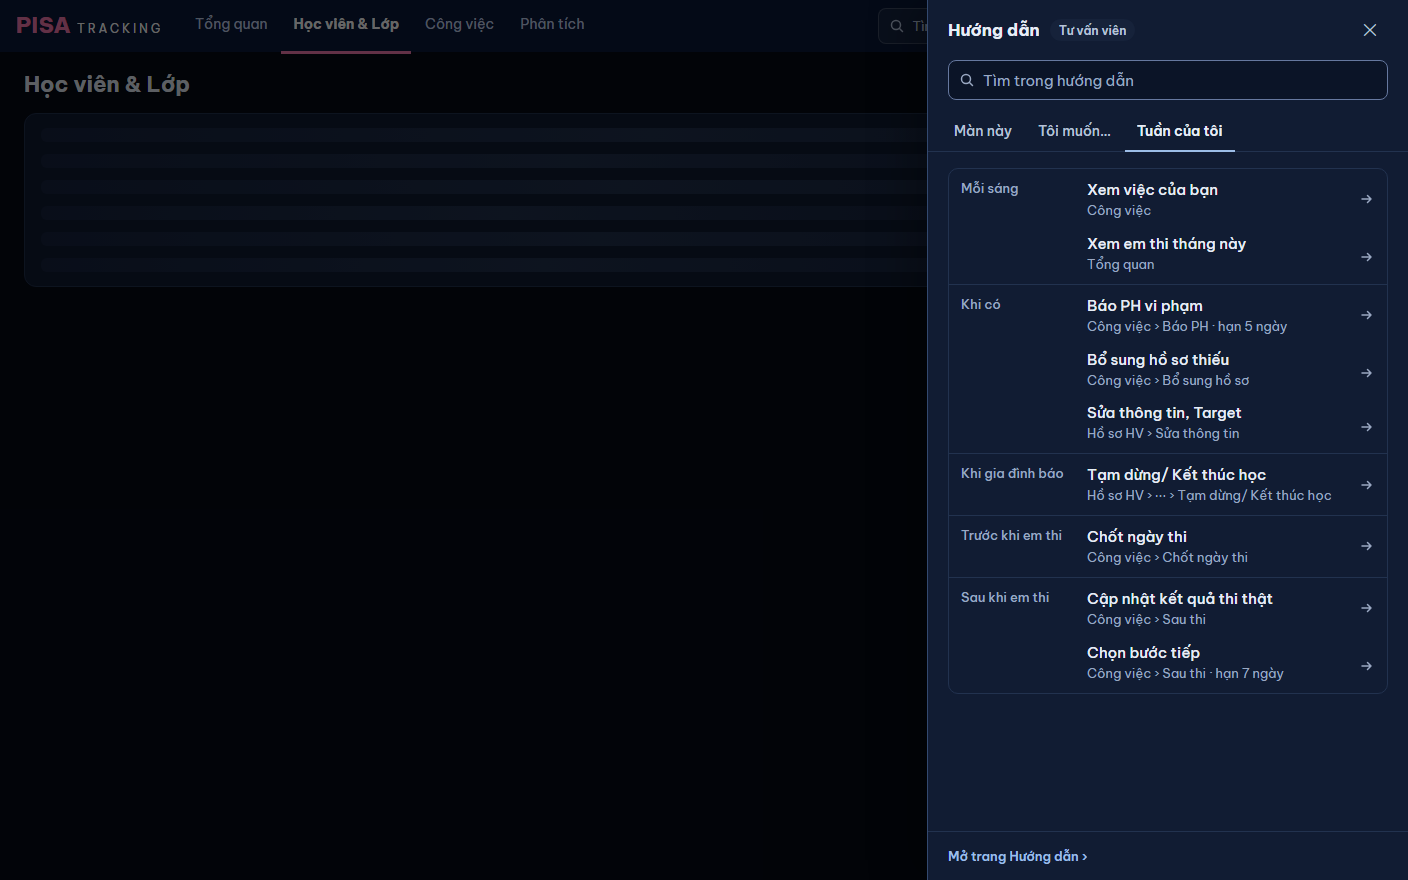
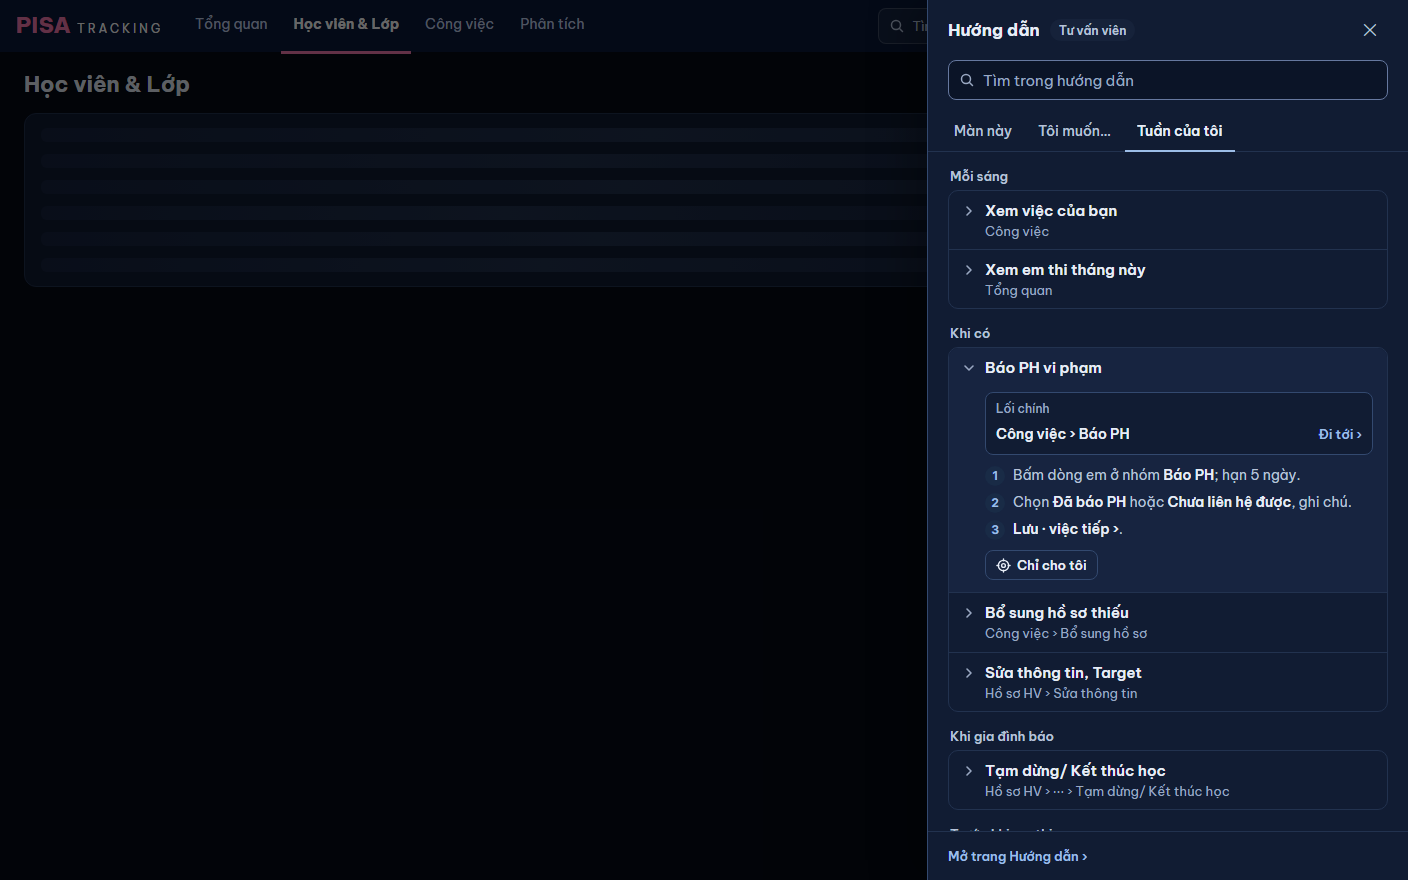
thiet-ke v14: sửa theo PTA rà #999 — F0 thanh trên có "?" (1440), Tuần của tôi mở tại chỗ, bỏ dòng trùng Không làm ở đây

Changed region(s): [[0.6562, 0.1841, 0.9688, 0.7977], [0.6562, 0.8284, 0.875, 0.9205], [0.9375, 0.4909, 0.9688, 0.5216]]

diff --git a/thiet-ke/v14/huong-dan.html b/thiet-ke/v14/huong-dan.html
@@ -145,8 +145,6 @@
 .o-loi-chinh .cung { flex-basis:100%; font-size:13px; color:var(--text-dim); }
 .dt .o-loi-chinh .phai-l a { min-height:44px; padding:0 4px; }
 .luong.mot { grid-template-columns:1fr; }
-.tuan > button { position:relative; padding-right:36px !important; }
-.tuan .mui-t { position:absolute; right:12px; top:50%; translate:0 -50%; width:16px; height:16px; fill:none; stroke:var(--text-faint); stroke-width:1.5; stroke-linecap:round; stroke-linejoin:round; }
 .rong-tim { display:grid; gap:12px; justify-items:start; font-size:15px; color:var(--text-dim); }
 .khong-lam.vai-khac { border:1px solid var(--line); border-radius:10px; padding:0 12px; }
 .khong-lam.vai-khac > div { padding:10px 0; }
@@ -179,17 +177,6 @@ mark { background:var(--hong-nen); color:var(--hong-chu); border-radius:3px; pad
 .ds-nhom { display:grid; gap:16px; }
 .dem-kq { font:500 13px var(--phong); color:var(--text-dim); }
 .ghi-rong { font-size:14px; color:var(--text-dim); }
-.tuan { border:1px solid var(--line); border-radius:10px; overflow:hidden; }
-.tuan > button { appearance:none; width:100%; border:0; background:none; display:grid; grid-template-columns:116px minmax(0,1fr); gap:10px; align-items:start; padding:10px 12px; border-top:1px solid var(--line); text-align:left; cursor:pointer; font:inherit; color:var(--text); }
-.tuan > button:first-child { border-top:0; }
-.tuan > button.cung-nhip { border-top-color:transparent; padding-top:2px; }
-.tuan > button:hover { background:var(--accent-soft); }
-.tuan .nhip { font:500 13px/1.5 var(--phong); color:var(--text-faint); }
-.tuan .viec-t { display:grid; gap:1px; }
-.tuan .viec-t b { font:500 15px/1.4 var(--phong); }
-.tuan .viec-t small { font-size:13px; color:var(--text-faint); }
-.dt .tuan > button { grid-template-columns:minmax(0,1fr); gap:2px; }
-.dt .tuan > button.cung-nhip .nhip { display:none; }
 
 /* menu Tài khoản 375 */
 .menu-tk { position:absolute; left:8px; right:8px; top:56px; z-index:30; background:var(--surface); border:1px solid var(--line); border-radius:12px; box-shadow:0 12px 32px rgb(0 0 0 / .25); padding:12px; display:grid; gap:8px; }
@@ -243,7 +230,7 @@ mark { background:var(--hong-nen); color:var(--hong-chu); border-radius:3px; pad
   </section>
 
   <section class="khu" id="d">
-    <h2>D · TVV Phạm Thu Trang, tab Tuần của tôi (bấm dòng → mở đúng việc ở Tôi muốn…)</h2>
+    <h2>D · TVV Phạm Thu Trang, tab Tuần của tôi (nhóm theo nhịp, bấm dòng mở ngay tại chỗ)</h2>
     <div class="cap">
       <figure><figcaption>D · 1440 tối</figcaption><div class="man toi" data-k="d1"></div></figure>
       <figure><figcaption>D · 375 sáng</figcaption><div class="dt sang" data-k="d1m"></div></figure>
@@ -259,8 +246,12 @@ mark { background:var(--hong-nen); color:var(--hong-chu); border-radius:3px; pad
   </section>
 
   <section class="khu" id="f">
-    <h2>F · 375 — chấm trên "?" khi chưa mở lần nào · panel toàn màn · menu Tài khoản không còn "Hướng dẫn"</h2>
+    <h2>F · nút "?" trên thanh — chấm khi chưa mở lần nào · panel toàn màn · menu Tài khoản không còn "Hướng dẫn"</h2>
     <div class="cap">
+      <figure><figcaption>F0 · 1440 tối · panel đóng, "?" cạnh chuông, chấm = chưa mở lần nào</figcaption><div class="man toi" data-k="f0"></div></figure>
+      <figure><figcaption>F0 · 1440 sáng</figcaption><div class="man sang" data-k="f0"></div></figure>
+    </div>
+    <div class="cap" style="margin-top:16px">
       <figure><figcaption>F1 · sáng · chưa mở lần nào</figcaption><div class="dt sang" data-k="f1"></div></figure>
       <figure><figcaption>F2 · tối · đã mở (hết chấm)</figcaption><div class="dt toi" data-k="f2"></div></figure>
       <figure><figcaption>F3 · sáng · QL · menu Tài khoản: "Đã xoá" thay chỗ "Hướng dẫn"</figcaption><div class="dt sang" data-k="f3"></div></figure>
@@ -386,7 +377,7 @@ mark { background:var(--hong-nen); color:var(--hong-chu); border-radius:3px; pad
       { ten: 'Nhập điểm MT cũ', vai: 'Chỉ GVCN', nho: 'Công việc › Nhập điểm MT cũ' },
       { ten: 'Xem bài quá hạn chấm' }
     ])) +
-    khongLam([['Xếp, dời lịch MT', 'việc của QL', 1], ['Xác nhận Case, PA · ghi kết quả', 'Công việc › Case học thuật']]);
+    khongLam([['Xếp, dời lịch MT', 'việc của QL', 1], ['Xem điểm cả lớp qua các lượt', 'Hồ sơ lớp']]);
 
   /* B · QL, Case đang mở trên Hồ sơ HV */
   var thanB = dangO({ ten: 'Case đang mở', tren: 'trên Hồ sơ học viên', cau: 'Một Case của em: PA, kết quả, người phụ trách.' }) +
@@ -410,9 +401,14 @@ mark { background:var(--hong-nen); color:var(--hong-chu); border-radius:3px; pad
     ]) + '</div>';
 
   /* D · TVV Tuần của tôi */
-  var TUAN = [['Mỗi sáng', 'Xem việc của bạn', 'Công việc'], ['', 'Xem em thi tháng này', 'Tổng quan'], ['Khi có', 'Báo PH vi phạm', 'Công việc › Báo PH · hạn 5 ngày'], ['', 'Bổ sung hồ sơ thiếu', 'Công việc › Bổ sung hồ sơ'], ['', 'Sửa thông tin, Target', 'Hồ sơ HV › Sửa thông tin'],
-    ['Khi gia đình báo', 'Tạm dừng/ Kết thúc học', 'Hồ sơ HV › ⋯ › Tạm dừng/ Kết thúc học'], ['Trước khi em thi', 'Chốt ngày thi', 'Công việc › Chốt ngày thi'], ['Sau khi em thi', 'Cập nhật kết quả thi thật', 'Công việc › Sau thi'], ['', 'Chọn bước tiếp', 'Công việc › Sau thi · hạn 7 ngày']];
-  var thanD = '<div class="tuan">' + TUAN.map(function (r) { return '<button class="' + (r[0] ? '' : 'cung-nhip') + '"><span class="nhip">' + e(r[0]) + '</span><span class="viec-t"><b>' + e(r[1]) + '</b><small>' + e(r[2]) + '</small></span>' + svg('<path d="M3 8h9M8.5 4.5 12 8l-3.5 3.5"/>', 'mui-t') + '</button>'; }).join('') + '</div>';
+  var thanD = '<div class="ds-nhom">' +
+    nhomViec('Mỗi sáng', [{ ten: 'Xem việc của bạn', nho: 'Công việc' }, { ten: 'Xem em thi tháng này', nho: 'Tổng quan' }]) +
+    nhomViec('Khi có', [{ ten: 'Báo PH vi phạm', mo: 1, chinh: 'Công việc › Báo PH', buoc: ['Bấm dòng em ở nhóm **Báo PH**; hạn 5 ngày.', 'Chọn **Đã báo PH** hoặc **Chưa liên hệ được**, ghi chú.', '**Lưu · việc tiếp ›**.'] }, { ten: 'Bổ sung hồ sơ thiếu', nho: 'Công việc › Bổ sung hồ sơ' }, { ten: 'Sửa thông tin, Target', nho: 'Hồ sơ HV › Sửa thông tin' }]) +
+    nhomViec('Khi gia đình báo', [{ ten: 'Tạm dừng/ Kết thúc học', nho: 'Hồ sơ HV › ⋯ › Tạm dừng/ Kết thúc học' }]) +
+    nhomViec('Trước khi em thi', [{ ten: 'Chốt ngày thi', nho: 'Công việc › Chốt ngày thi' }]) +
+    nhomViec('Sau khi em thi', [
+      { ten: 'Cập nhật kết quả thi thật', nho: 'Công việc › Sau thi' },
+      { ten: 'Chọn bước tiếp', nho: 'Công việc › Sau thi · hạn 7 ngày' }]) + '</div>';
 
   /* E · GV, màn chưa có mục — Tôi muốn… đủ */
   var thanE = dangO({ ten: 'Phân tích', cau: 'Màn này chưa có hướng dẫn riêng.' }) + '<div class="ds-nhom">' +
@@ -445,6 +441,7 @@ mark { background:var(--hong-nen); color:var(--hong-chu); border-radius:3px; pad
     panel({ vai: 'Tư vấn viên', tab: 2, than: thanD });
   K.d1m = thanh({ dt: 1, mo: 1 }) + panel({ vai: 'Tư vấn viên', tab: 2, than: thanD });
   K.e1 = thanh({ vai: 'gv', dang: 'Phân tích', badge: 9, ten: 'Trần Ngọc Hà', mo: 1, tin: 2 }) + phanTich() + panel({ vai: 'Giáo viên', tab: 1, than: thanE });
+  K.f0 = thanh({ vai: 'gv', dang: 'Test', badge: 9, ten: 'Trần Ngọc Hà', cham: 1, tin: 2 }) + lichTest();
   K.f1 = thanh({ dt: 1, cham: 1, tin: 2 }) + congViec375();
   K.f2 = thanh({ dt: 1, mo: 1, tin: 2 }) + panel({ vai: 'Giáo viên', tab: 0, than: thanF });
   K.f3 = thanh({ dt: 1, tin: 4 }) + congViec375() +

diff --git a/thiet-ke/v14/huong-dan-ghi-chu.md b/thiet-ke/v14/huong-dan-ghi-chu.md
@@ -78,7 +78,7 @@ Trạng thái mockup: **A** GV · Lịch Test tuần · Màn này · **B** QL ·
 - Dòng gập ở Tôi muốn… có chữ nhạt dưới tên = **lối chính** (biết "ở đâu" không cần mở). Mở ra: ô **Lối chính** + **Đi tới ›** (đổi trang) · bước · **Lối tắt** · **Chỉ cho tôi**.
 - Màn lối tắt (vd Lịch Test tuần): việc mở có dòng nhạt "Lối chính: Công việc › Nhập điểm ›. Ở đây mở cùng ô điểm." — sinh từ `loiTat` (đặc tả 9.5).
 - Đang gõ ô tìm: hàng tab giữ nguyên, thân panel thành một danh sách việc khớp (gộp cả 3 tab, bỏ trùng), có nhóm, chữ khớp tô hồng (như ô tìm thanh trên — V14), đầu danh sách "n việc khớp". Xoá chữ (✕ trong ô) → về tab đang chọn.
-- Tuần của tôi: mỗi dòng = nhịp (chữ nhạt, chỉ ghi ở dòng đầu nhịp) · tên việc · chữ nhạt nơi làm; không bước (không lặp). Bấm dòng → tab Tôi muốn…, mở đúng việc đó.
+- Tuần của tôi (bản 3b): nhóm theo nhịp, dòng gập có chữ nhạt = lối chính; bấm dòng mở ngay tại chỗ (Lối chính + bước), như Tôi muốn….
 - QL / QT: ô chọn "**Vai: Quản lý** ▾" thay chip vai (một ô vừa nói vai đang xem vừa đổi được — "Xem vai khác" là tên đọc màn hình). Vai khác: chip vai chỉ đọc.
 - Nhãn "Chỉ GVCN" / "GV Speaking": thẻ viền đứt nhỏ cuối dòng (khác thẻ lượt nền nhạt); chỉ hiện khi đúng vai (đặc tả 3.6) hoặc QL xem vai GV.
 - Chấm trên "?": chấm trắng 8 px viền màu thanh (cùng họ chấm chuông — trắng trên nền xanh), không hồng (hồng chỉ để nhận diện, V2).
@@ -87,7 +87,14 @@ Trạng thái mockup: **A** GV · Lịch Test tuần · Màn này · **B** QL ·
 - Dòng nhạt dưới tên việc khi gập = **luôn là đường lối chính** (không tiền tố), ở cả 3 tab. Việc chỉ làm ở chính màn này (vd Đổi người phụ trách trong Case) thì không có dòng nhạt.
 - Tìm không ra việc của vai này → vẫn chỉ chỗ: nhóm "Việc của vai khác" (chữ nhạt "việc của QL", không link) + nút **Xem mọi việc của bạn** (về Tôi muốn… đủ). Thật sự không có gì thì chỉ câu + nút.
 
-## 4b. [XM] cho PTA (đề xuất, chưa có trong đặc tả)
+## 3b. PTA chốt sau rà ảnh #999 (05/11)
+1. **Thêm F0** (1440 tối + sáng): panel đóng, thanh trên có **"?"** cạnh chuông, có chấm (chưa mở lần nào) — yêu cầu chính của chủ SP phải thấy rõ ở 1440.
+2. **[XM-1] đồng ý:** tìm theo từ đồng nghĩa (mỗi việc khai vài từ: "đổi lớp" ↔ Chuyển lớp, "sửa điểm"…) + việc của vai khác hiện trong kết quả tìm, một dòng "Chuyển lớp — việc của QL". PTA thêm vào đặc tả.
+3. **[XM-2] Tuần của tôi MỞ TẠI CHỖ:** nhóm theo nhịp (Mỗi sáng · Khi có · Khi gia đình báo · Trước khi em thi · Sau khi em thi), mỗi việc một dòng gập / mở như Tôi muốn… (mở ra: Lối chính + bước); bỏ mũi tên nhảy tab. Lý do: xử lý tại chỗ + một danh sách một kiểu mở. (Thay đặc tả 3.5 — PTA sửa đặc tả.)
+4. **[XM-3]** "Không làm ở đây" không lặp đích đã có ở Sau — A bỏ dòng "Xác nhận Case, PA · ghi kết quả", thay "Xem điểm cả lớp qua các lượt → Hồ sơ lớp ›".
+5. **P2:** giữ ô **Lối chính** một dáng ở cả 3 tab (thay "dòng nhạt" đặc tả 3.3) — đồng ý.
+
+## 4b. [XM] đã gửi PTA (trả lời ở 3b)
 - **[XM-1] Tìm theo từ đồng nghĩa và việc vai khác** (C2): gõ "đổi lớp" ra "Chuyển lớp một em — việc của QL". Đặc tả 3.2 chỉ giữ `locHd` (bỏ dấu). Muốn có: thêm trường `tuKhac` cho mỗi việc + đọc cả việc của vai khác (chỉ tên + "việc của …", không bước). Chữ khớp qua từ đồng nghĩa KHÔNG tô hồng. Không thì C2 chỉ còn câu "Không có việc nào khớp" + Xem mọi việc.
 - **[XM-2] Tuần của tôi** giữ đúng đặc tả 3.5 (bấm dòng → tab Tôi muốn…, mở đúng việc). Bản rà critique đề xuất cho dòng gập / mở tại chỗ (chỉ ô Lối chính) cho cùng kiểu với hai tab kia, đỡ một bước — PTA xem.
 - **[XM-3]** Sau của Lịch Test tuần ("Công việc › Case học thuật") trùng đích với dòng "Xác nhận Case, PA · ghi kết quả" ở Không làm ở đây — giữ cả hai theo PTA chốt; bỏ một nếu PTA thấy thừa.
@@ -100,10 +107,10 @@ Trạng thái mockup: **A** GV · Lịch Test tuần · Màn này · **B** QL ·
 | 3 | 30/40 | P1 2 | "Tạm dừng/ Kết thúc học" (N11, đúng nút web; trước ghi sai "Tạm dừng / Thôi học") · thêm việc TVV **Chốt ngày thi** (N6) · dòng nhạt = luôn đường lối chính |
 | 4 | **32/40** | **0 · 0** | QL: "Công việc › **Của GV** › Case học thuật" (Công việc QL mặc định Của tôi) · nhãn vai viền liền |
 
-Cổng (luật 28/10): đã chạm 30, sau đó không còn P0 / P1 → dừng. Detector (B) vòng 2–3: chỉ còn phát hiện đúng hệ thiết kế (vạch trái 3 px, khung không đệm, Inter cho chữ số, bóng hộp nổi).
+Cổng (luật 28/10): đã chạm 30, sau đó không còn P0 / P1 → dừng. Sửa 3b sau đó chỉ đổi theo chốt PTA (không chấm lại). Detector (B) vòng 2–3: chỉ còn phát hiện đúng hệ thiết kế (vạch trái 3 px, khung không đệm, Inter cho chữ số, bóng hộp nổi).
 P2 / P3 còn lại (không sửa, ghi để PTA biết): ô Lối chính ở màn lối tắt nặng hơn "dòng nhạt" đặc tả 3.3 (giữ ô để một dáng ở cả 3 tab — vòng 1 rà đòi thống nhất; PTA chọn) · ở 1440 nền mờ che trạng thái nút "?" (đúng `KhungPanel`) · chữ "ô điểm" là từ trong nhà · Speaking chấm chéo ở F1 có "⚠ 1 quá hạn" — giữ như web hiện tại (`DanhSachViec`, v12).
 F3: QL Vy không dạy lớp nên menu không có "Hồ sơ giáo viên"; QL có dạy thì có, như web.
 
 ## 5. Ảnh (thiet-ke/v14/anh/)
 Chụp bằng Chrome headless từ chính tệp mockup (`huong-dan.html?k={khung}&n={toi|sang}`), phông Be Vietnam Pro đã nạp (`document.fonts.check('600 15px "Be Vietnam Pro"', 'ợ')` = true).
-A1 `a1-1440-toi` · `a1-375-sang` · A2 `a2-1440-toi` · B `b-1440-toi` · `b-375-sang` · C `c-1440-toi` · `c-375-sang` · C2 `c2-375-toi` · D `d-1440-toi` · `d-375-sang` · E `e-1440-toi` · `e-1440-sang` · F `f1-375-sang` · `f2-375-toi` · `f3-375-sang`.
+A1 `a1-1440-toi` · `a1-375-sang` · A2 `a2-1440-toi` · B `b-1440-toi` · `b-375-sang` · C `c-1440-toi` · `c-375-sang` · C2 `c2-375-toi` · D `d-1440-toi` · `d-375-sang` · E `e-1440-toi` · `e-1440-sang` · F0 `f0-1440-toi` · `f0-1440-sang` · F `f1-375-sang` · `f2-375-toi` · `f3-375-sang`.
